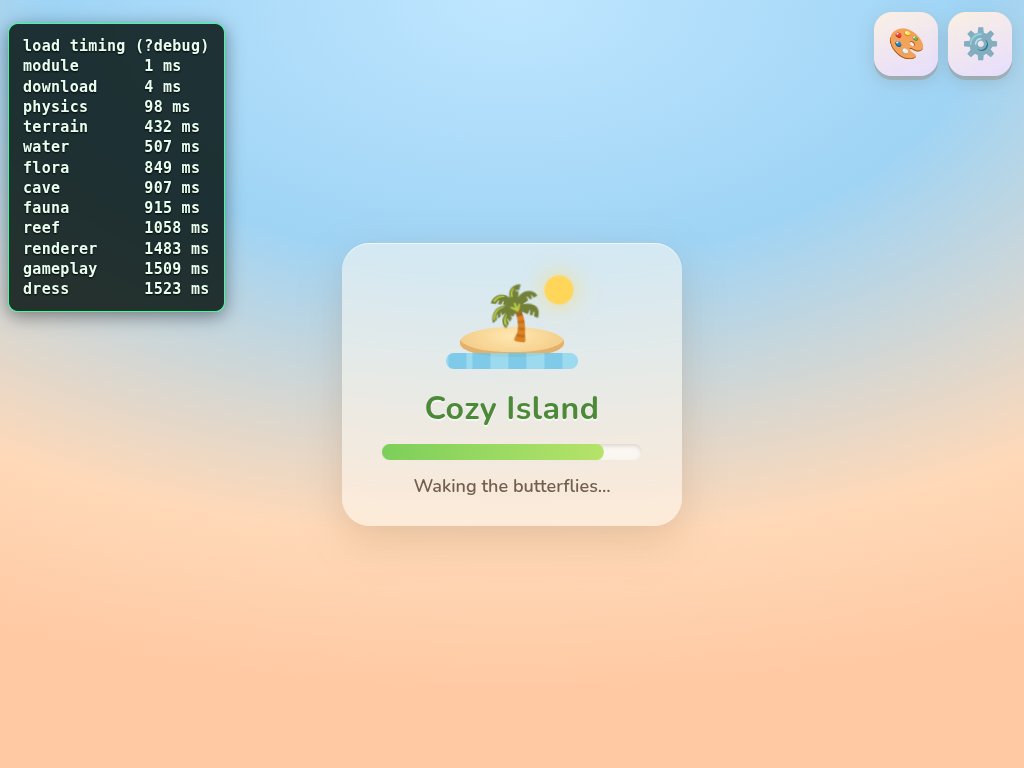
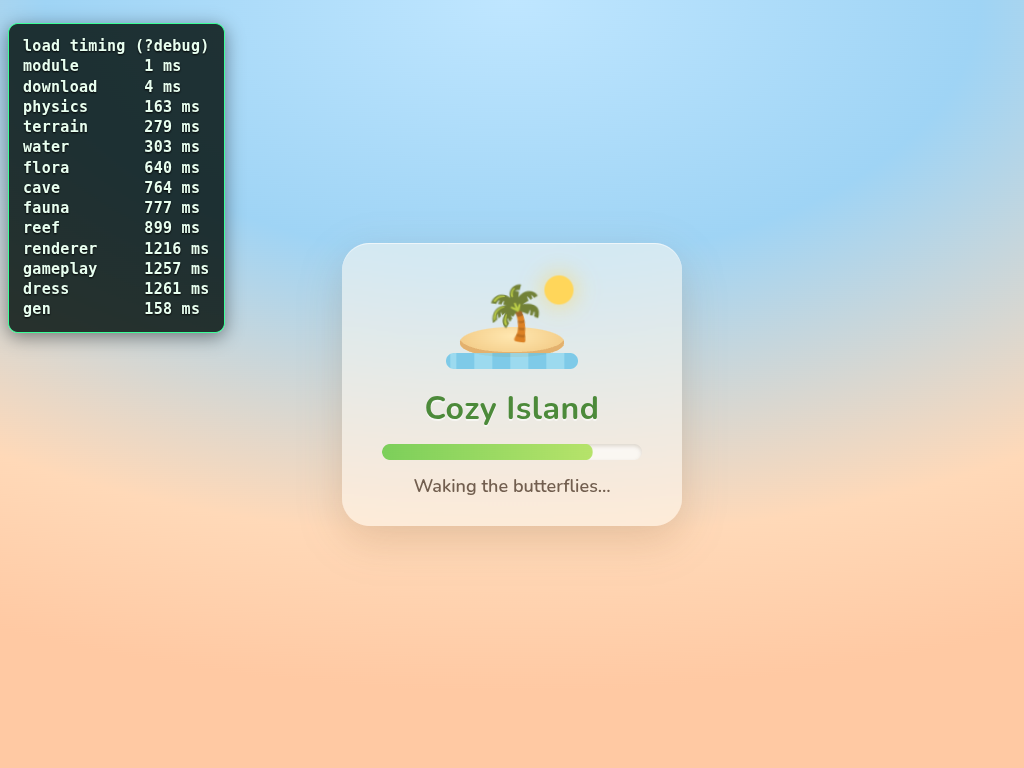
Session wrap-up Nov 7: polish log; backlog still empty
Fishing lazy-load + Journal warm-up prefetch shipped earlier
today; refresh load-timing screenshots; Open tasks still all DONE.

diff --git a/BACKLOG.md b/BACKLOG.md
@@ -1,6 +1,6 @@
 # Cozy Island backlog (single source of truth)
 
-Updated: 2026-11-05 (CT), 10:50 AM. Live: https://cozy-island-be6.pages.dev (Cloudflare Pages, auto-built from `main`).
+Updated: 2026-11-07 (CT), 10:20 AM. Live: https://cozy-island-be6.pages.dev (Cloudflare Pages, auto-built from `main`).
 Owner: 3D Master (dev bot, daily session 9:57 AM CT, a floor not a cap).
 Rules (fleet Bot Rules v3.0, D1-D3): every open task has Status, ETA live date and Estimate (dev days). Update this file every session, commit and push. Notion is discontinued; do not read or write it. Old content: `/workspace/fleet/archive/notion/` (read-only).
 Empty backlog: tell The Boss with priority, then polish on the daily schedule. Walker's real-device iPad tests never block work.
@@ -97,6 +97,9 @@ Earlier small calls (default in place, confirm when convenient): purple Hallowee
   3. Pink petals: "Pink petals only on Blossom Isle". Shipped 2026-10-29: generated islets lose the petal-pink ground drifts, and the season's drifting petals hide within 30 m of a generated islet (main island and Blossom Isle unchanged). tests/islet-petals.mjs 30/30.
 
 ## Done (from git log)
+
+Nov 7
+- Polish: lazy-load Fishing chunk (f7482f5); prefetch Journal in warm-up (d0f0f48); fishing 15/15, journal 13/13, iPad touch 24/24
 
 Nov 5
 - 53c: furniture save/undo/reload acceptance; tests/furniture-save.mjs 11/11; Order 53 closed
